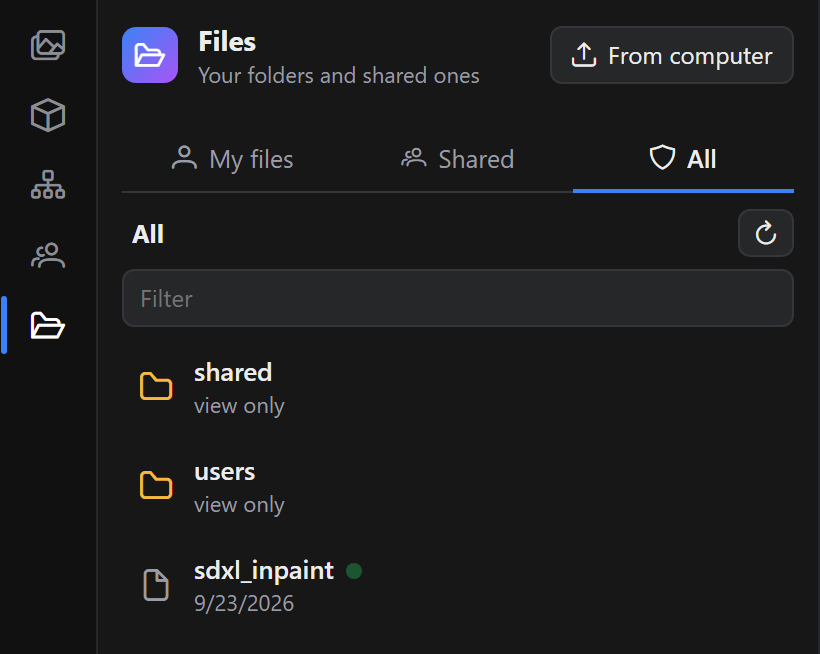
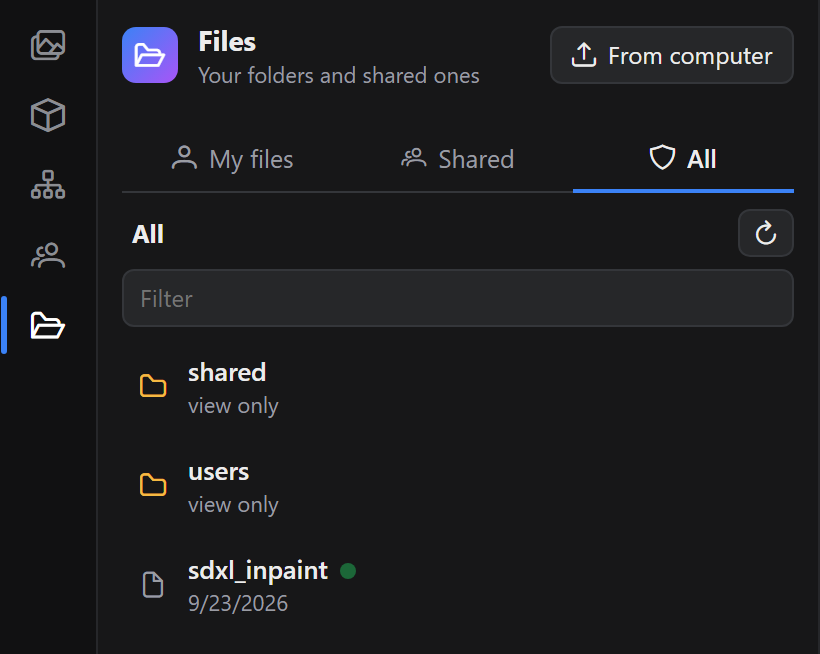
RigShare 1.2.0
Snapshot on every save (Saved at <time>), New folder prompt above the Save
dialog, lighter Graph marker, changelog, docs, README and screenshots.

diff --git a/web/rigshare/files.js b/web/rigshare/files.js
@@ -249,6 +249,8 @@ export class FilesBrowser {
     // ----- actions ----------------------------------------------------------
 
     async ask(title, message, value = "") {
+        // Inside the Save / Move / Open dialogs ComfyUI's own prompt would open underneath.
+        if (this.mode !== "browse") return await promptModal(title, message, value);
         const dialog = this.app.extensionManager?.dialog;
         if (dialog?.prompt) return await dialog.prompt({ title, message, defaultValue: value });
         return window.prompt(message, value);
@@ -331,7 +333,13 @@ export function modal(title, icon, body, footer) {
         document.removeEventListener("keydown", onKey, true);
         resolveClose(value);
     };
-    const onKey = (e) => { if (e.key === "Escape" && backdrop.isConnected) { e.stopPropagation(); close(null); } };
+    // Stacked modals (a prompt over the Save dialog): Escape closes only the top one.
+    const onKey = (e) => {
+        if (e.key !== "Escape" || !backdrop.isConnected) return;
+        if ([...document.querySelectorAll(".rs-modal-backdrop")].at(-1) !== backdrop) return;
+        e.stopPropagation();
+        close(null);
+    };
     const backdrop = h("div", { class: "rs-modal-backdrop rs-panel-vars", onmousedown: (e) => { if (e.target === backdrop) close(null); } },
         h("div", { class: "rs-modal rs-modal-wide", role: "dialog", "aria-label": title },
             h("div", { class: "rs-modal-title" }, h("i", { class: `pi ${icon}` }), h("span", { class: "rs-grow" }, title),
@@ -342,6 +350,19 @@ export function modal(title, icon, body, footer) {
     document.body.append(backdrop);
     document.addEventListener("keydown", onKey, true);
     return { close, closed };
+}
+
+/** A text prompt in RigShare's own modal, so it stacks above another RigShare modal. */
+export async function promptModal(title, message, value = "") {
+    const input = h("input", { class: "rs-input", value, maxLength: 120 });
+    const ok = h("button", { class: "rs-btn rs-btn-primary" }, "OK");
+    const m = modal(title, "pi-pencil", h("div", { class: "rs-save-body" }, h("label", { class: "rs-label" }, message), input),
+        [h("span", { class: "rs-grow" }), h("button", { class: "rs-btn rs-btn-ghost", onclick: () => m.close(null) }, "Cancel"), ok]);
+    const submit = () => m.close(input.value);
+    ok.onclick = submit;
+    input.addEventListener("keydown", (e) => { e.stopPropagation(); if (e.key === "Enter") { e.preventDefault(); submit(); } });
+    setTimeout(() => { input.focus(); input.select(); }, 30);
+    return await m.closed;
 }
 
 /** Folder picker; resolves to a folder path ("" = common top level) or null. */

diff --git a/web/rigshare/panel.js b/web/rigshare/panel.js
@@ -16,6 +16,14 @@ const VIEWS = [
     { id: "admin", icon: "pi-shield", label: "Admin", admin: true },
 ];
 
+/** A snapshot's name; on-save ones show the save time in the viewer's own time zone. */
+function snapLabel(snap) {
+    if (snap.kind === "save") {
+        return `Saved at ${new Date(snap.time * 1000).toLocaleString([], { dateStyle: "short", timeStyle: "short" })}`;
+    }
+    return snap.label || "Auto";
+}
+
 export class RigSharePanel {
     constructor(app, client, sync, presence) {
         this.app = app;
@@ -348,12 +356,12 @@ export class RigSharePanel {
         }
         this.historyEl.replaceChildren(...snaps.map((snap) => h("div", { class: "rs-row-item" },
             h("div", { class: "rs-grow rs-min0" },
-                h("div", { class: "rs-ellipsis" }, snap.label || "Auto", h("span", { class: "rs-muted" }, ` · ${snap.nodes} nodes`)),
+                h("div", { class: "rs-ellipsis" }, snapLabel(snap), h("span", { class: "rs-muted" }, ` · ${snap.nodes} nodes`)),
                 h("div", { class: "rs-muted rs-small" }, `${timeAgo(snap.time * 1000)} · ${snap.author}`)),
             h("button", { class: "rs-btn rs-btn-icon", title: "Open a private copy", onclick: () => this.openSnapshot(snap) }, h("i", { class: "pi pi-external-link" })),
             this.sync.canEdit ? h("button", {
                 class: "rs-btn rs-btn-icon", title: "Restore for everyone", onclick: async () => {
-                    if (!(await this.confirm("Restore snapshot", `Restore "${snap.label || "Auto"}" for everyone in this workflow?`))) return;
+                    if (!(await this.confirm("Restore snapshot", `Restore "${snapLabel(snap)}" for everyone in this workflow?`))) return;
                     await this.run(() => this.client.request("POST", `/rigshare/api/snapshots/${snap.id}/restore`), "Snapshot restored");
                     this.loadHistory();
                 },
@@ -365,7 +373,7 @@ export class RigSharePanel {
         if (!data) return;
         const doc = structuredClone(data.doc);
         if (doc.extra) delete doc.extra.rigshare; // a private copy, not the live room
-        await this.app.loadGraphData(doc, true, true, `${snap.room_name || "Snapshot"} (${snap.label || snap.id}).json`);
+        await this.app.loadGraphData(doc, true, true, `${snap.room_name || "Snapshot"} (${snapLabel(snap).replace(/[\/:]/g, "-")}).json`);
     }
 
     /** Small avatar marked with how that person views the workflow: node graph or App. */

diff --git a/web/rigshare/styles.js b/web/rigshare/styles.js
@@ -264,8 +264,8 @@ body.rs-no-manager [aria-label="ComfyUI Manager"] { display: none !important; }
 .rs-view-avatar { position: relative; overflow: visible; }
 .rs-comfy-icon { display: inline-block; width: 1em; height: 1em; flex: none; }
 .rs-view-mark { position: absolute; right: -6px; bottom: -5px; font-size: 8px; width: 13px; height: 13px; display: grid; place-items: center;
-  border-radius: 50%; background: var(--rs-bg); color: var(--rs-muted); border: 1px solid var(--rs-border); }
-.rs-view-app .rs-view-mark { color: var(--rs-accent-fg); background: var(--rs-accent); border-color: var(--rs-accent); }
+  border-radius: 50%; background: #71717a; color: #fff; border: 1.5px solid var(--rs-bg); }
+.rs-view-app .rs-view-mark { color: var(--rs-accent-fg); background: var(--rs-accent); }
 .rs-view-chip { display: inline-flex; align-items: center; gap: 3px; margin-left: 6px; font-size: 10.5px; padding: 0 6px; }
 .rs-view-chip .rs-comfy-icon { font-size: 11px; }
 .rs-view-chip.rs-view-app { color: var(--rs-accent); border-color: var(--rs-accent); }

diff --git a/rigshare_core/store.py b/rigshare_core/store.py
@@ -444,8 +444,11 @@ class Store:
                 items.append({"id": name[:-5], **meta})
         return items
 
-    def add_snapshot(self, doc, author, room, room_name, label=None):
-        snap_id = time.strftime("%Y%m%d-%H%M%S") + "-" + secrets.token_hex(2)
+    def add_snapshot(self, doc, author, room, room_name, label=None, kind=None):
+        """``kind`` "save": taken when the file was saved; those rotate like automatic ones."""
+        # Sorted by name, newest first: include microseconds so saves in the same second keep their order.
+        now = time.time()
+        snap_id = time.strftime("%Y%m%d-%H%M%S", time.localtime(now)) + f"-{int(now % 1 * 1e6):06d}-" + secrets.token_hex(2)
         meta = {
             "time": int(time.time()),
             "author": author,
@@ -454,6 +457,8 @@ class Store:
             "room_name": room_name,
             "nodes": len(doc.get("nodes", [])) if isinstance(doc, dict) else 0,
         }
+        if kind:
+            meta["kind"] = kind
         with open(os.path.join(self.snapshot_dir, snap_id + ".json"), "w", encoding="utf-8") as f:
             json.dump({"meta": meta, "doc": doc}, f)
         self._prune_snapshots(room)
@@ -470,9 +475,11 @@ class Store:
 
     def _prune_snapshots(self, room):
         keep = max(1, int(self.config.get("snapshot_keep", 30)))
-        # Labelled (manual) snapshots are kept; only automatic ones rotate.
-        auto = [s for s in self.list_snapshots(room) if not s.get("label")]
-        for snap in auto[keep:]:
+        # Named (manual) snapshots are kept; automatic and on-save ones rotate, each on its own.
+        snaps = self.list_snapshots(room)
+        auto = [s for s in snaps if not s.get("label") and not s.get("kind")]
+        saves = [s for s in snaps if s.get("kind") == "save"]
+        for snap in auto[keep:] + saves[keep:]:
             try:
                 os.remove(os.path.join(self.snapshot_dir, snap["id"] + ".json"))
             except OSError:

diff --git a/rigshare_core/routes.py b/rigshare_core/routes.py
@@ -609,6 +609,20 @@ def setup(server, store, hub):
         action = {"GET": "get", "HEAD": "get", "POST": "save", "DELETE": "delete"}.get(request.method)
         return (action, src, None) if action else None
 
+    def snapshot_saved_file(request, path, body):
+        if not path.endswith(".json") or Workspace.workflows_rel(path) is None:
+            return
+        try:
+            doc = json.loads(body)
+        except ValueError:
+            return
+        if not isinstance(doc, dict) or "nodes" not in doc:
+            return
+        name = path.rsplit("/", 1)[-1].removesuffix(".json").removesuffix(".app")
+        # The panel shows the time in each viewer's own time zone; the label is for API clients.
+        label = "Saved at " + time.strftime("%Y-%m-%d %H:%M UTC", time.gmtime())
+        store.add_snapshot(doc, display(request), "file:" + path, name, label, kind="save")
+
     def check_userdata(request, action, src, dest):
         """Folder rules (private spaces, restricted shared folders)."""
         kind, key, perms = who(request)
@@ -705,7 +719,12 @@ def setup(server, store, hub):
                                        "details": "", "extra_info": {}}, "node_errors": {}},
                             status=403)
                     break
+        if userdata and userdata[0] == "save":
+            await request.read()  # keep the body for the snapshot below (aiohttp caches it)
         response = await handler(request)
+        # Every save of a workflow keeps a snapshot, named after when it was saved.
+        if userdata and userdata[0] == "save" and getattr(response, "status", 0) == 200:
+            snapshot_saved_file(request, userdata[1], await request.read())
         # Workflow listings only show what this person may open.
         if userdata and userdata[0] == "list" and not trusted(request.remote or "") and hub.workspace:
             response = filter_listing(request, response, userdata[1])

diff --git a/tests/python/test_server.py b/tests/python/test_server.py
@@ -418,3 +418,25 @@ def test_workflows_with_an_app_set_up(run):
             assert presence["rooms"][0]["app"] is True
             await sock.close()
     run(scenario())
+
+
+def test_every_save_keeps_a_snapshot(run):
+    async def scenario():
+        async with rig_server({"snapshot_keep": 2}) as rig:
+            await rig.setup_admin()
+            alice = await rig.add_user("alice", edit=True)
+            h = rig.http
+            path = "workflows/shared/flow.json"
+            for n in range(3):
+                doc = json.dumps({"nodes": [{"id": i} for i in range(n + 1)], "links": []}).encode()
+                assert (await h.post(rig.url(f"/api/userdata/{enc(path)}"), data=doc, headers=alice)).status == 200
+            await h.post(rig.url(f"/api/userdata/{enc('workflows/notes.json')}"), data=b'{"not": "a workflow"}', headers=alice)
+            snaps = await (await h.get(rig.url(f"/rigshare/api/snapshots?room={enc('file:' + path)}"), headers=alice)).json()
+            assert [s["nodes"] for s in snaps] == [3, 2], "newest first, rotated to snapshot_keep"
+            assert all(s["kind"] == "save" and s["label"].startswith("Saved at ") and s["author"] == "alice" for s in snaps)
+            assert not rig.store.list_snapshots("file:workflows/notes.json"), "only workflows"
+            # A save that is refused keeps nothing.
+            viewer = await rig.add_user("viewer")
+            await h.post(rig.url(f"/api/userdata/{enc(path)}"), data=b'{"nodes": []}', headers=viewer)
+            assert len(rig.store.list_snapshots("file:" + path)) == 2
+    run(scenario())

diff --git a/CHANGELOG.md b/CHANGELOG.md
@@ -1,14 +1,28 @@
 # Changelog
 
-## Unreleased
+## 1.2.0 (2026-09-26)
+
+ComfyUI's App mode works with RigShare, and every save keeps a snapshot.
 
 ### Added
 
-- App mode: live workflows work in ComfyUI's App view. Each person keeps their own graph or App view through live edits, and App inputs sync. Cursors are off in the App view. Workflows saved as Apps (`.app.json`) show with an app icon in Files and in the Live list, and Save keeps them Apps
-- In the App view, where ComfyUI shows only its own sidebar tabs, RigShare adds **RigShare** and **Files** buttons to that sidebar, with the unread chat badge. They open the panels in a drawer beside it
+- **App mode**: live workflows work in ComfyUI's App view. Each person keeps their own graph or App view through live edits, App inputs sync, and the app's layout (chosen inputs and outputs) syncs with the workflow. Cursors are off in the App view
+- In the App view, where ComfyUI shows only its own sidebar tabs, **RigShare** and **Files** buttons join that sidebar, with the unread chat badge, and open the panels in a drawer beside it
 - The Live tab and People show whether each person is in the node graph or the App view, with ComfyUI's own Graph and App icons
-- Folder access is managed only in the Files tab. *This tab* in the Live tab still says whether the folder is restricted. Inside a shared folder you own, its 🔒 sits next to the new-folder button
-- ComfyUI's own Workflows and Apps sidebar tabs are hidden, since Files replaces them, and their shortcuts open Files. Admin setting `hide_comfy_file_tabs`, on by default
+- Workflows with an App set up, and workflows saved as Apps (`.app.json`), show ComfyUI's App icon in Files and the Live list. Save keeps an App an App
+- **A snapshot on every save**, named *Saved at* and the time (in each viewer's time zone). They rotate like automatic snapshots (`snapshot_keep`)
+- Inside a shared folder you own, its 🔒 access button sits next to the new-folder button
+
+### Changed
+
+- ComfyUI's own Workflows and Apps sidebar tabs are hidden, since Files replaces them, and their shortcuts open Files. Admin setting `hide_comfy_file_tabs`, on by default. The server enforces file permissions either way
+- Folder access is managed only in the Files tab. *This tab* in the Live tab still says whether the folder is restricted
+- Smaller icons in folder lists
+
+### Fixed
+
+- In the Save and Move dialogs, **New folder** asked for the name in a prompt hidden behind the dialog
+- Snapshots taken in the same second could be rotated out of order
 
 ## 1.1.0 (2026-09-26)
 

diff --git a/docs/files.md b/docs/files.md
@@ -31,7 +31,7 @@ RigShare organises ComfyUI's workflows folder like a shared drive. Where a workf
 
 ComfyUI's own **Workflows** and **Apps** tabs are hidden, since Files replaces them, and their keyboard shortcuts open Files. Admins can bring them back under *Admin → Server settings*. Hiding them isn't what protects the files, though: the server applies the same rules whichever browser is used. If you show ComfyUI's open workflow tabs in the sidebar (*Comfy.Workflow.WorkflowTabsPosition*), the Workflows tab stays, because it lists them.
 
-Workflows saved as **Apps** (ComfyUI's App mode, `.app.json`) show with an app icon. Opening one opens it as an app.
+Workflows with an App set up (ComfyUI's App mode), or saved as Apps (`.app.json`), show ComfyUI's App icon. Opening an App opens it in the App view.
 
 Click a workflow to open it. The Files tab marks live workflows with a green dot. **From computer** opens a workflow file from your machine, like ComfyUI's own *Open*.
 
@@ -41,7 +41,7 @@ Hover a row for its actions: **Rename**, **Move to…**, **Delete**, and on a sh
 
 <p align="center"><img src="images/save.png" width="720" alt="Save dialog"></p>
 
-**Save** (Ctrl+S) on a new workflow, and **Save As**, open a dialog with a name and the same three tabs. It starts in My files, or in the folder you last saved to. Pick any folder you can edit and click **Save here**. Clicking an existing workflow reuses its name, and ComfyUI asks before overwriting.
+**Save** (Ctrl+S) on a new workflow, and **Save As**, open a dialog with a name and the same three tabs. It starts in My files, or in the folder you last saved to. Pick any folder you can edit and click **Save here**. Clicking an existing workflow reuses its name, and ComfyUI asks before overwriting. Every save also keeps a snapshot in the workflow's history.
 
 ## Opening
 

diff --git a/README.md b/README.md
@@ -26,7 +26,8 @@ A custom node that turns a single ComfyUI server into a shared workspace. Everyo
 - shows who is online and which workflow they are on, plus live cursors and selections
 - lets you follow someone, jumping to their tab and view
 - keeps the whole chat history, loading older messages as you scroll up, with an unread badge, a blinking icon and a sound
-- keeps per-workflow history: snapshots every few minutes, named snapshots, one-click restore
+- keeps per-workflow history: a snapshot on every save and every few minutes, named snapshots, one-click restore
+- works in ComfyUI's App mode: everyone picks their own graph or App view, App inputs sync live, and you can see who is in which view
 - gives each account permissions to edit, queue, use ComfyUI Manager or administer, enforced by the server and not just hidden in the UI
 - keeps simultaneous edits apart: two people adding or connecting nodes at the same moment both keep their work
 - issues personal API keys, so scripts and other apps can call ComfyUI with their owner's permissions

diff --git a/docs/settings.md b/docs/settings.md
@@ -33,7 +33,7 @@ Admins change these under **Admin → Server settings**. They are stored in `rig
 | `api_protection.trusted_ips` | `["127.0.0.1", "::1"]` | Addresses or networks that skip login and checks |
 | `room_expiry_days` | `14` | Forget the live state of workflows nobody opened for this long |
 | `snapshot_interval_sec` | `300` | Automatic snapshot interval while editing; `0` turns it off |
-| `snapshot_keep` | `30` | Automatic snapshots kept per workflow; named ones are always kept |
+| `snapshot_keep` | `30` | Automatic snapshots kept per workflow, and as many on-save ones; named ones are always kept |
 | `chat_keep` | `0` | Chat messages kept: `0` keeps the whole history, a number trims it to the latest ones at startup |
 
 ## Environment variables

diff --git a/docs/sharing.md b/docs/sharing.md
@@ -56,6 +56,7 @@ Saved workflow files still show up by name in ComfyUI's workflow browser; openin
 ## Snapshots
 
 - Automatic every 5 minutes while a workflow is being edited (`snapshot_interval_sec`). The last 30 are kept (`snapshot_keep`).
+- On every save, by anyone, of any workflow: named *Saved at* and the time, shown in your own time zone. The last 30 are kept too.
 - **Snapshot** saves a named one, which is never rotated out.
 - **History** lists them. ↗ opens a private copy; ⟲ restores it for everyone, after first saving the current state as a snapshot.
 
